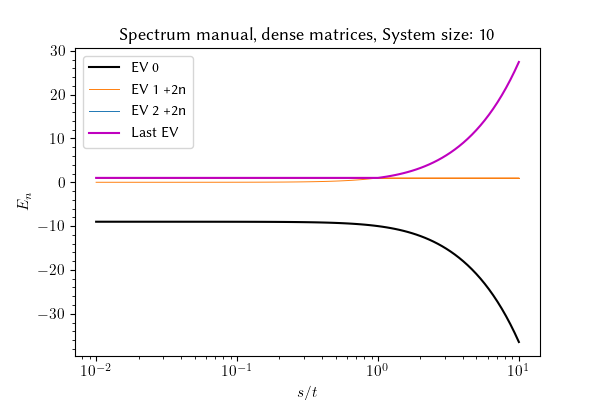
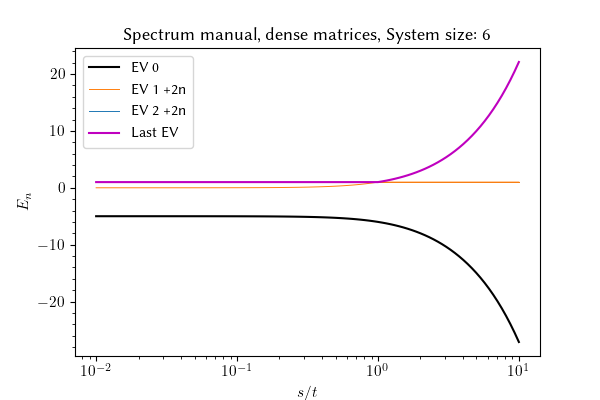
reran L=6 rep=2 spectra

diff --git a/src/main.py b/src/main.py
@@ -288,7 +288,7 @@ class Lattice:
 
 
 if __name__ == "__main__":
-    L = 10
+    L = 6
     # "dense" uses ndarray, "sparse" uses scipy.sparse.coo_matrix
     test = Lattice(L, "dense")
     # "manual" gives the a) spectrum, anything else gives the c) spectrum
